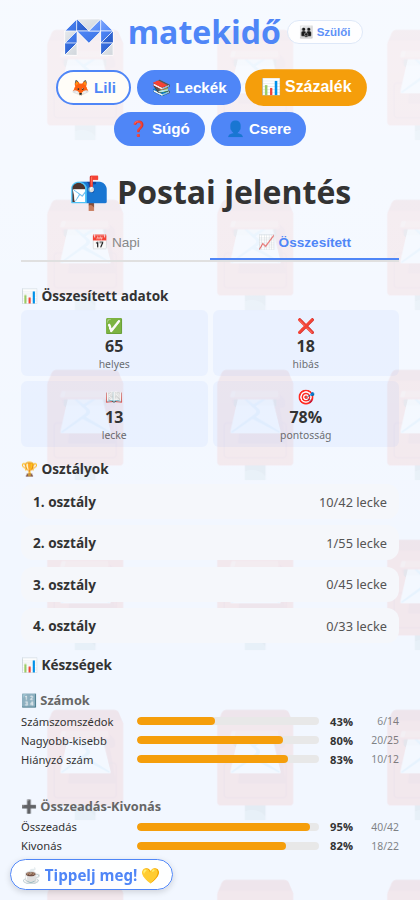
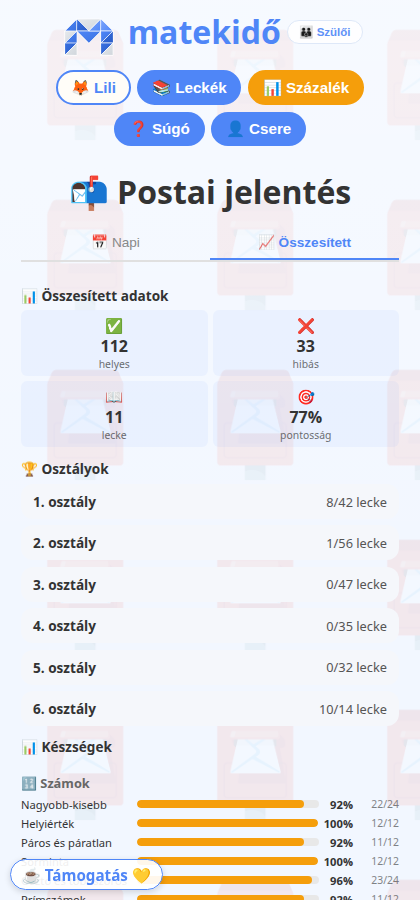
Súgó: a képernyőképek frissítve (1-6. osztály, Támogatás, Egypercesek fül)

diff --git a/docs/sugo.md b/docs/sugo.md
@@ -32,7 +32,7 @@ A leckék **osztályonként vannak csoportosítva**, így mindig pontosan az ado
 
 ![Az évfolyamválasztó a feladatok menüjében](/docs/evfolyamvalaszto.png)
 
-- A feladatok menüjének {{🎓 Évfolyam}} gombjával választhatsz (1., 2., 3., 4., 5. osztály).
+- A feladatok menüjének {{🎓 Évfolyam}} gombjával választhatsz (1., 2., 3., 4., 5., 6. osztály).
 - A választás **játékosonként elmentődik**, legközelebb már nem kérdezi meg.
 - Minden lecke mellett látszik, hányadik osztályos a jelvényen (pl. „1. osztály”).
 

diff --git a/src/docs/sugo.md b/src/docs/sugo.md
@@ -32,7 +32,7 @@ A leckék **osztályonként vannak csoportosítva**, így mindig pontosan az ado
 
 ![Az évfolyamválasztó a feladatok menüjében](/docs/evfolyamvalaszto.png)
 
-- A feladatok menüjének {{🎓 Évfolyam}} gombjával választhatsz (1., 2., 3., 4., 5. osztály).
+- A feladatok menüjének {{🎓 Évfolyam}} gombjával választhatsz (1., 2., 3., 4., 5., 6. osztály).
 - A választás **játékosonként elmentődik**, legközelebb már nem kérdezi meg.
 - Minden lecke mellett látszik, hányadik osztályos a jelvényen (pl. „1. osztály”).
 
